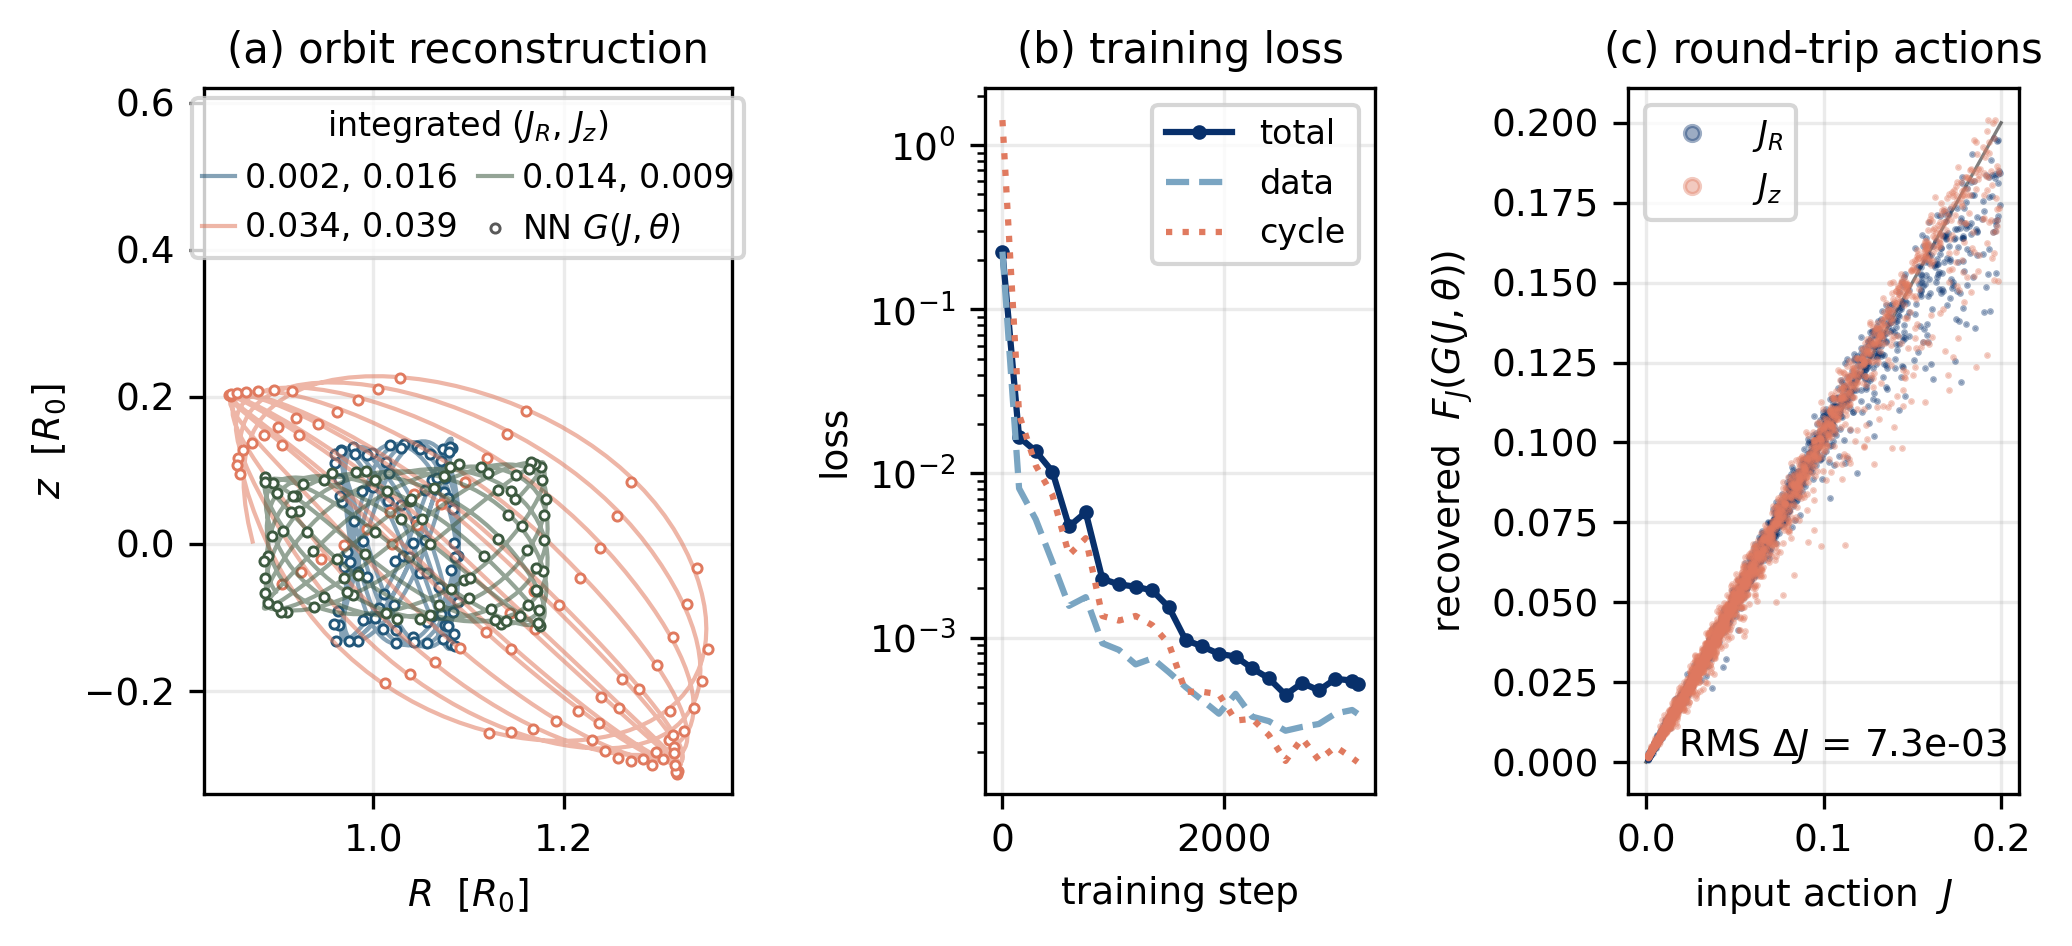
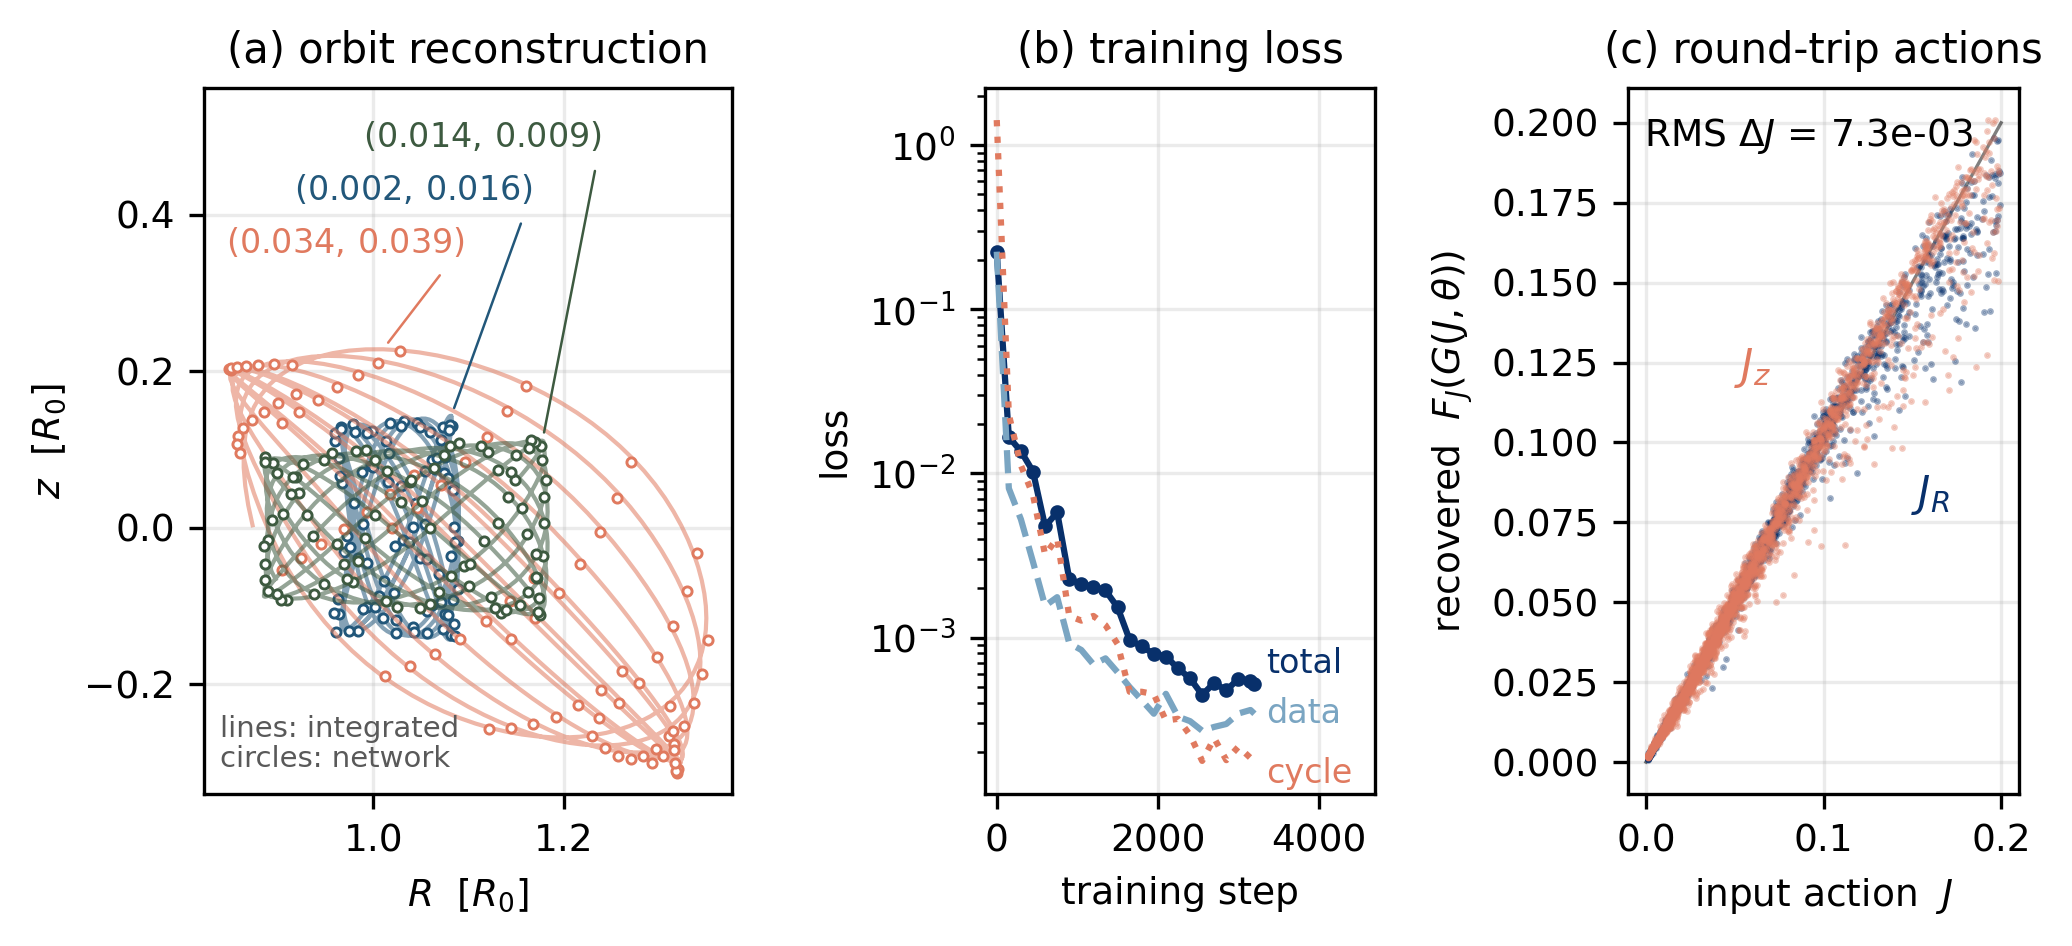
g20: direct labels instead of legends (orbit actions with leaders, loss terms at the curve ends, J_R/J_z by their clouds)
Claude-Session: https://claude.ai/code/session_01ArNTLH4HQ7vgZLPVuQYrvD

diff --git a/paper/figures/g20_neural_staeckel_inverse/make_staeckel_figure.py b/paper/figures/g20_neural_staeckel_inverse/make_staeckel_figure.py
@@ -35,7 +35,7 @@ def main():
                              "xtick.labelsize": 9, "ytick.labelsize": 9})
     fig, (axo, axl, axr) = plt.subplots(
         1, 3, figsize=(7.0, 3.3) if PAPER else (15.5, 4.7),
-        **({"width_ratios": [1.35, 1, 1]} if PAPER else {}))  # PAPER: room for (a)'s legend
+        **({"width_ratios": [1.35, 1, 1]} if PAPER else {}))
 
     # (a) meridional-plane orbit reconstruction
     for k, c in enumerate(ORB_C):
@@ -49,13 +49,27 @@ def main():
              ms=2.2 if PAPER else 3.5, label="NN $G(J,\\theta)$" if PAPER
              else "NN inverse $G(J,\\theta)$")
     axo.set_xlabel(r"$R$  [$R_0$]"); axo.set_ylabel(r"$z$  [$R_0$]")
-    if PAPER:
+    if PAPER:  # direct labels: each orbit's (J_R, J_z), stacked in headroom above the orbits
         axo.set_title("(a) orbit reconstruction")
-        lo, hi = axo.get_ylim()  # headroom for the legend above the orbits
-        axo.set_ylim(lo, lo + (hi - lo) / 0.62)
-        axo.legend(fontsize=8, loc="upper center", ncol=2, handlelength=1.0,
-                   handletextpad=0.3, columnspacing=0.6, borderaxespad=0.3, borderpad=0.3,
-                   title=r"integrated ($J_R$, $J_z$)", title_fontsize=8)
+        lo, hi = axo.get_ylim()
+        axo.set_ylim(lo, lo + (hi - lo) / 0.66)
+        axo.text(0.03, 0.03, "lines: integrated\ncircles: network", transform=axo.transAxes,
+                 fontsize=7, color="0.35", va="bottom", ha="left", linespacing=1.1)
+        # stagger the labels so that each leader (from the label's right end) clears the
+        # labels below it: the orbit whose top lies furthest right gets the top label
+        tops = [(float(numpy.asarray(d["orbit_R"][k])[int(numpy.argmax(d["orbit_z"][k]))]), k)
+                for k in range(len(ORB_C))]
+        n = len(tops)
+        for row, (_, k) in enumerate(sorted(tops, reverse=True)):
+            c = ORB_C[k]
+            R, z = numpy.asarray(d["orbit_R"][k]), numpy.asarray(d["orbit_z"][k])
+            i = int(numpy.argmax(z))
+            axo.annotate(f"$({float(d['orbit_JR'][k]):.3f},\\,{float(d['orbit_Jz'][k]):.3f})$",
+                         xy=(R[i], z[i]), xycoords="data",
+                         xytext=(0.04 + 0.13 * (n - 1 - row), 0.93 - 0.075 * row),
+                         textcoords="axes fraction", fontsize=8, color=c, va="center",
+                         ha="left", arrowprops=dict(arrowstyle="-", color=c, lw=0.6,
+                                                    relpos=(1.0, 0.5)))
     else:
         axo.set_title("(a) orbit reconstruction from actions+angles\n"
                       "(line=integrated, ○=neural inverse)")
@@ -73,7 +87,13 @@ def main():
     axl.set_title("(b) training loss" if PAPER else
                   f"(b) backprop through Staeckel AA (jax)\n"
                   f"trained in {float(d['train_seconds']):.0f}s on {d['device_kind']}")
-    axl.legend(fontsize=8 if PAPER else 8.5)
+    if PAPER:  # direct labels at the right end of each curve
+        axl.set_xlim(-150, 4700)
+        for col, lab, c, f in ((1, "total", JAX_C, 1.35), (2, "data", "#7aa5c2", 1.0),
+                               (3, "cycle", "#e07a5f", 0.85)):
+            axl.text(h[-1, 0] + 150, h[-1, col] * f, lab, color=c, fontsize=8, va="center")
+    else:
+        axl.legend(fontsize=8.5)
     axl.grid(alpha=0.25)
 
     # (c) round-trip: recovered vs input action
@@ -88,9 +108,10 @@ def main():
                    else r"recovered action  $F_J(G(J,\theta))$")
     if PAPER:
         axr.set_title("(c) round-trip actions")
-        axr.text(0.97, 0.04, f"RMS $\\Delta J$ = {rms:.1e}", transform=axr.transAxes,
-                 ha="right", va="bottom", fontsize=9)
-        axr.legend(fontsize=8, markerscale=6, loc="upper left")
+        axr.text(0.04, 0.96, f"RMS $\\Delta J$ = {rms:.1e}", transform=axr.transAxes,
+                 ha="left", va="top", fontsize=9)
+        axr.text(0.06, 0.12, "$J_z$", color="#e07a5f", fontsize=10, ha="center")
+        axr.text(0.16, 0.08, "$J_R$", color=JAX_C, fontsize=10, ha="center")
     else:
         axr.set_title(f"(c) round-trip closure\nRMS $\\Delta J$ = {rms:.2e}")
         axr.legend(fontsize=9, markerscale=4)
